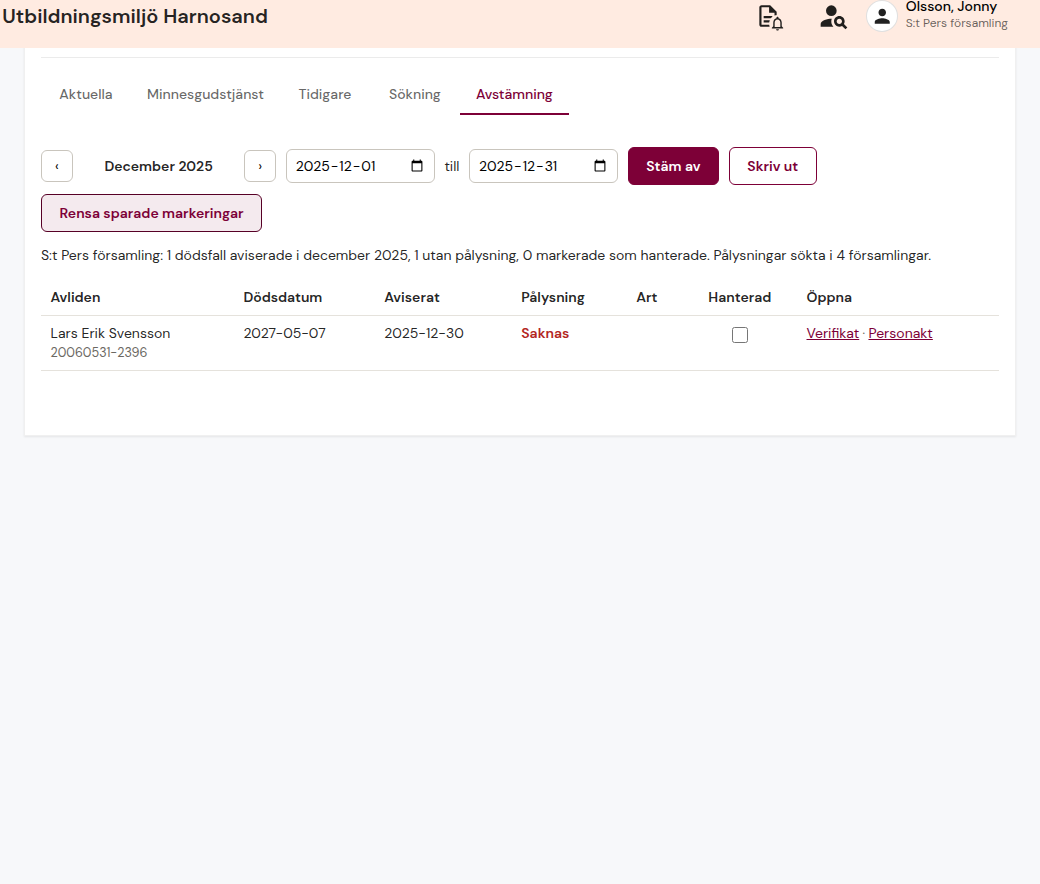
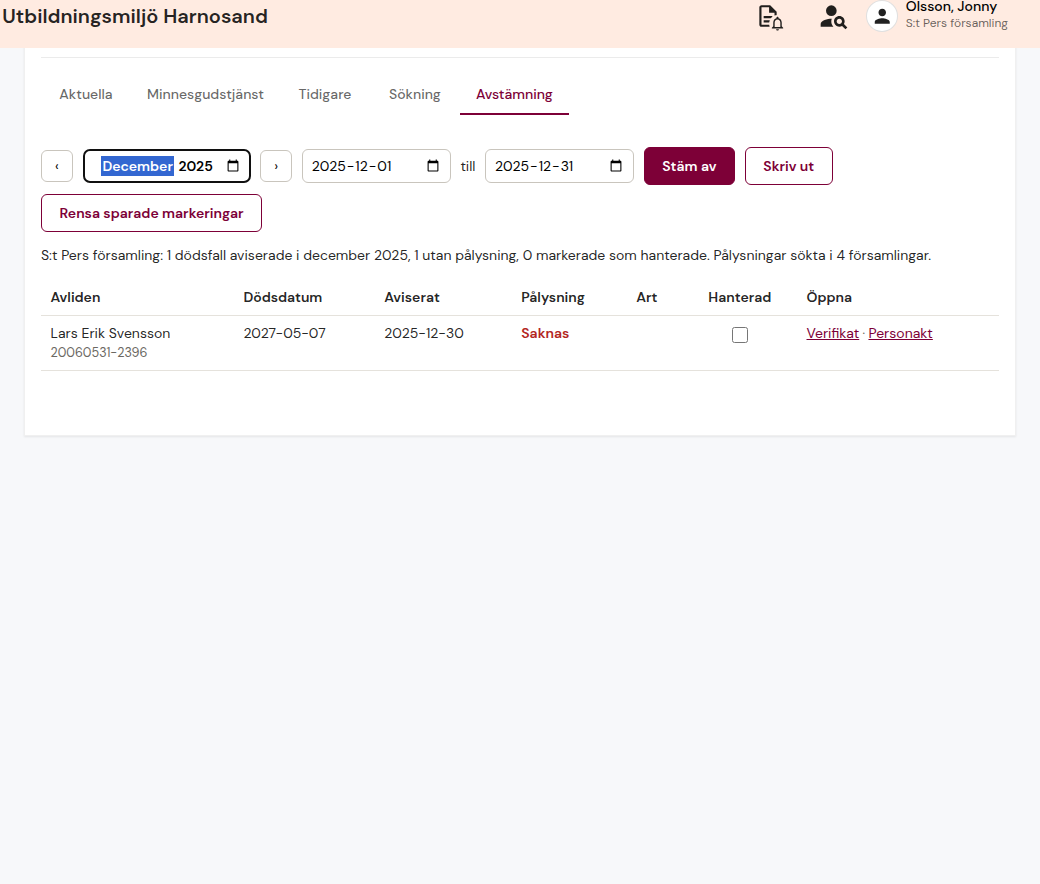
Låt månaden i avstämningen vara ett månadsfält att klicka på
Ett input type=month i stället för en fast rubrik: klicka och välj månad
och år direkt, pilarna stegar som förut.

Claude-Session: https://claude.ai/code/session_016wKJTBLN1626mGn4K9njpR

Changed region(s): [[0.0923, 0.1527, 0.3692, 0.2138], [0.5846, 0.1527, 0.8, 0.2138], [0.4, 0.1833, 0.5538, 0.2138]]

diff --git a/svk-kbok-enhancements.user.js b/svk-kbok-enhancements.user.js
@@ -3035,8 +3035,9 @@
             #${AVSTAMNING_ID} { padding: 1rem 0 1.5rem; font-size: 14px; }
             #${AVSTAMNING_ID} .svk-kbok-rad { display: flex; flex-wrap: wrap; gap: .6rem;
                 align-items: center; margin-bottom: .8rem; }
-            #${AVSTAMNING_ID} .svk-kbok-manad { font-weight: 600; min-width: 9.5rem;
-                text-align: center; text-transform: capitalize; }
+            #${AVSTAMNING_ID} .svk-kbok-manad { font: inherit; font-weight: 600; min-width: 10rem;
+                text-align: center; text-transform: capitalize; border: 1px solid #c9c5bd;
+                border-radius: 6px; padding: .3rem .5rem; background: #fff; cursor: pointer; }
             #${AVSTAMNING_ID} .svk-kbok-pil { border: 1px solid #c9c5bd; background: #fff;
                 border-radius: 6px; width: 2rem; height: 2rem; cursor: pointer; font: inherit; }
             #${AVSTAMNING_ID} input[type=date] { font: inherit; padding: .3rem .5rem;
@@ -3112,7 +3113,14 @@
         const bakat = el('button', 'svk-kbok-pil', '‹');
         bakat.type = 'button';
         bakat.title = 'Föregående månad';
-        const manadstext = el('span', 'svk-kbok-manad');
+        // Månaden är ett månadsfält: klicka på den och välj månad och år
+        // direkt, i stället för att stega. Webbläsaren visar den på svenska.
+        const manadstext = document.createElement('input');
+        manadstext.type = 'month';
+        manadstext.className = 'svk-kbok-manad';
+        manadstext.setAttribute('aria-label', 'Månad');
+        let egetIntervallValt = false;
+        const periodtext = () => (egetIntervallValt ? 'Eget intervall' : `${MANADER[manad]} ${ar}`);
         const framat = el('button', 'svk-kbok-pil', '›');
         framat.type = 'button';
         framat.title = 'Nästa månad';
@@ -3143,13 +3151,15 @@
             [tillstand.fran, tillstand.till] = manadsgranser(ar, manad);
             franFalt.value = tillstand.fran;
             tillFalt.value = tillstand.till;
-            manadstext.textContent = `${MANADER[manad]} ${ar}`;
+            egetIntervallValt = false;
+            manadstext.value = `${ar}-${String(manad + 1).padStart(2, '0')}`;
         }
 
         function egetIntervall() {
             tillstand.fran = franFalt.value;
             tillstand.till = tillFalt.value;
-            manadstext.textContent = 'Eget intervall';
+            egetIntervallValt = true;
+            manadstext.value = '';
         }
 
         bakat.addEventListener('click', () => {
@@ -3161,6 +3171,14 @@
         framat.addEventListener('click', () => {
             manad += 1;
             if (manad > 11) { manad = 0; ar += 1; }
+            sattManad();
+            korAvstamning();
+        });
+        manadstext.addEventListener('change', () => {
+            const traff = manadstext.value.match(/^(\d{4})-(\d{2})$/);
+            if (!traff) return;
+            ar = Number(traff[1]);
+            manad = Number(traff[2]) - 1;
             sattManad();
             korAvstamning();
         });
@@ -3192,7 +3210,7 @@
             const period = {
                 fran: tillstand.fran,
                 till: tillstand.till,
-                text: manadstext.textContent,
+                text: periodtext(),
             };
             const inaktuell = () => korning !== senasteKorning || tillstand.borttagen;
             pagar = true;

diff --git a/CHANGELOG.md b/CHANGELOG.md
@@ -11,7 +11,8 @@ byggt framgår av commit-historiken.
   pålysningarna i alla dina församlingar. Du ser om varje pålysning är
   knuten till en begravning eller fristående, och kan öppna verifikatet och
   personakten direkt från raden. Kryssa Hanterad för det som är omhändertaget
-  på annat sätt. Listan går att skriva ut.
+  på annat sätt. Klicka på månaden för att hoppa direkt till en annan
+  månad och ett annat år. Listan går att skriva ut.
 - Ctrl+B träffar bara knappen i den öppna rutan, inte en som är på väg
   bort eller ligger bakom inställningarna.
 - Tillägget glömmer namnet det döper blanketterna efter så snart filen

diff --git a/Dokumentation.md b/Dokumentation.md
@@ -714,6 +714,9 @@ bara för knutna. Rättas buggen kan steg 5 strykas.
 
 ### Fliken
 
+Månadsväljaren är ett `input type="month"`, så webbläsaren visar sin egen
+månadsväljare på svenska när man klickar på månaden. Pilarna stegar den.
+
 Pålysningsbokens flikar är MUI Tabs, `button[role=tab]` med id
 `palysning-tab-0` till `-3`, och panelerna `div[role=tabpanel]` som syskon
 med attributet `hidden`. Fliken Avstämning är en femte knapp med grannens
